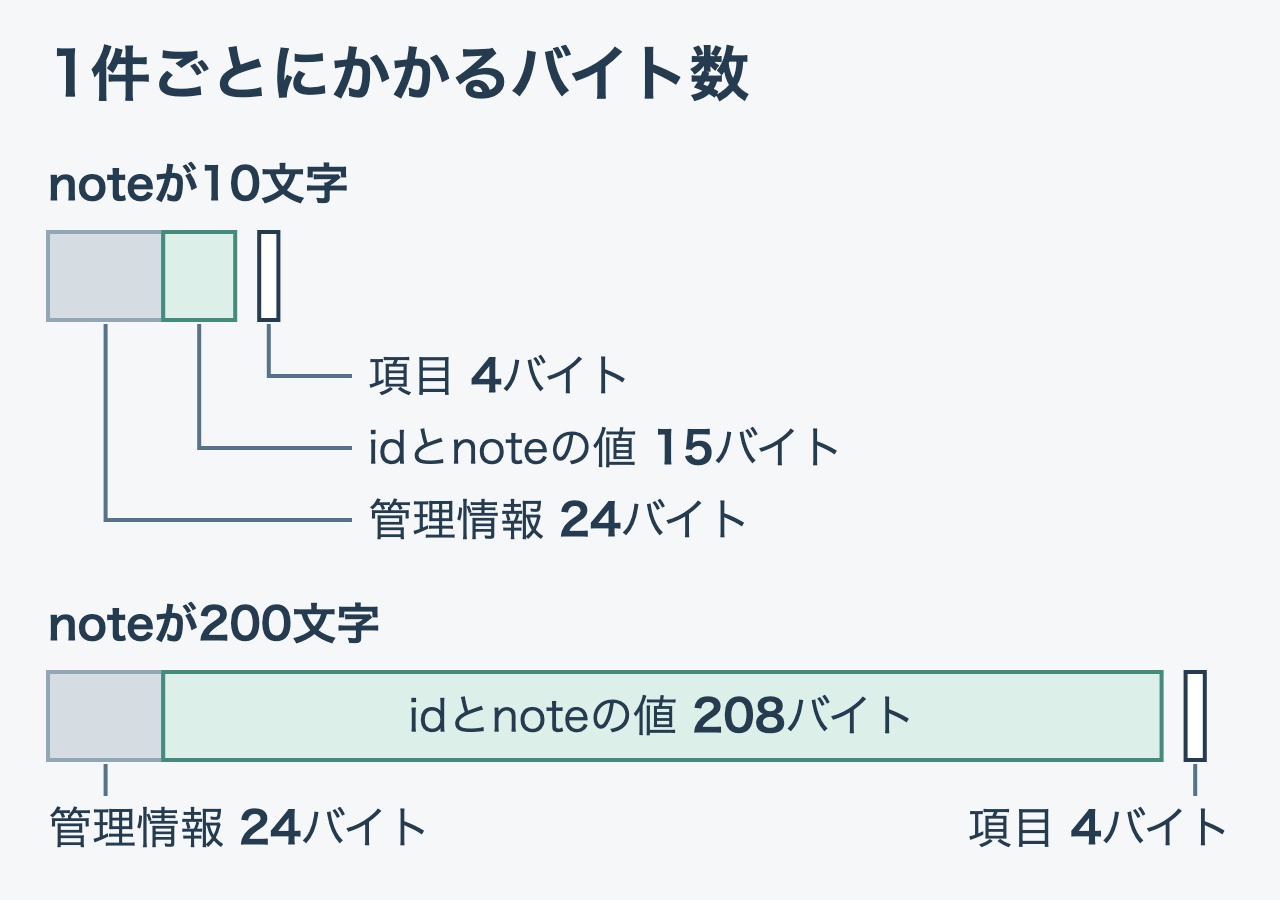
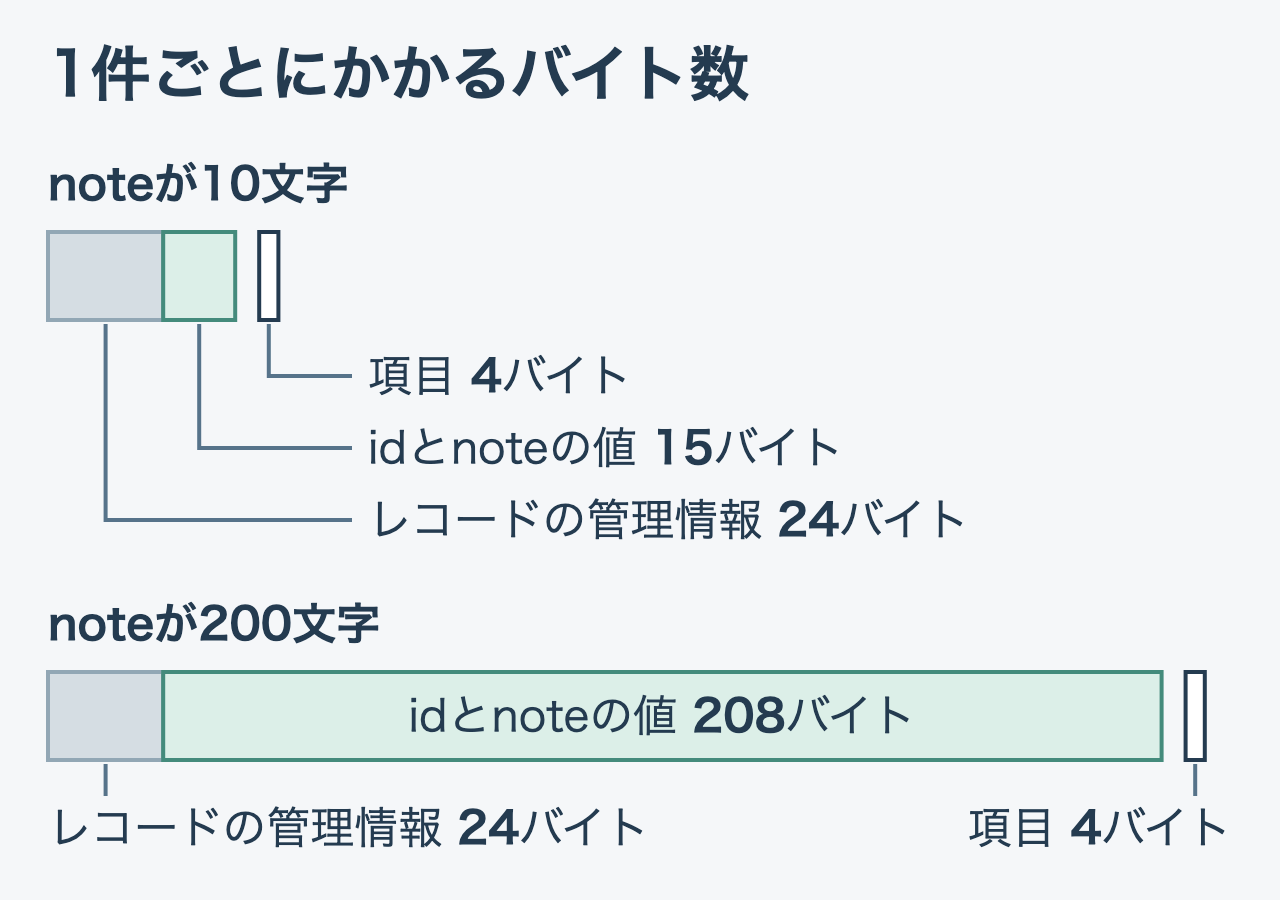
docs(query-journey): 第4章の「管理情報」を言い分け、1ページに185件入る内訳を脚注で示す
確かめ直しの4位と次点。
- 帯の図 03-record-bytes のラベル、代替テキスト、キャプション、本文の「管理情報」を
  「レコードの管理情報」にし、ページの中の並びの図の「ページの管理情報」と
  言い分けた（catalog.json の説明も合わせた）
- 表の数で8,192を割っても185にならない理由を一文で断り、検証ログ
  04-record-size.out の lp_off（40バイトずつずれる）と lower（764＝24＋185×4）を
  脚注に書いた
- ctid の図のキャプションの「ページの中の並びや空き領域は再現していません」を、
  次の図へ送る形にした。直後の図が本1をいちばん後ろに描くので、並びが逆に
  見えていたため

Changed region(s): [[0.2812, 0.5289, 0.75, 0.6222], [0.0312, 0.8711, 0.5, 0.9644]]

diff --git a/books/postgresql-query-journey/04-pages-and-storage.md b/books/postgresql-query-journey/04-pages-and-storage.md
@@ -168,13 +168,13 @@ FROM books_observation ORDER BY id LIMIT 8;
 `ctid`の二つの数は、左から「ページ番号」「そのページ内でレコードを指す項目の番号」です。ページ番号は0から、項目番号は1から始まります。まずページ0を開き、その中の1番の項目からレコードの場所をたどる、と読みます。
 
 ![出力の1行目のctid (0,1)の0でページ0を選び、1の項目をたどって、実験用の本 1のレコードに届く](/images/postgresql-query-journey/03-ctid-location.png)
-*(0,1)の0がページを、1がページの中の項目を選ぶことを見てください。掲載した出力に合わせて描いた図で、ページの中の並びや空き領域は再現していません。*
+*(0,1)の0がページを、1がページの中の項目を選ぶことを見てください。掲載した出力に合わせて描いた図です。ページの中でレコードがどう並ぶかは、次の図で見ます。*
 
 項目は、レコードそのものではありません。ページの中でレコードがどこにあるかを書いた、1件4バイトの小さな札です。項目はページの前から順に、レコードはページの後ろから詰めて置かれ、その間が空き領域になります。レコードを直接指さずに札を一段挟むのは、空き領域を詰めるためにページの中でレコードを動かしても、項目の番号、つまり`ctid`を変えずに済むからです（[ページの構造の公式説明](https://www.postgresql.org/docs/18/storage-page-layout.html)）。
 
 ページ0の中の並びを図にすると、次のようになります。
 
-![ページ0の先頭に管理情報があり、その後ろに項目1、2、3…136が前から並ぶ。レコードは本1がいちばん後ろで、本2、本3…本136と後ろから並び、間が空き領域になる。各項目は自分のレコードを指す](/images/postgresql-query-journey/03-page-layout.png)
+![ページ0の先頭にページの管理情報があり、その後ろに項目1、2、3…136が前から並ぶ。レコードは本1がいちばん後ろで、本2、本3…本136と後ろから並び、間が空き領域になる。各項目は自分のレコードを指す](/images/postgresql-query-journey/03-page-layout.png)
 *項目は前から、レコードは後ろから並び、その間が空き領域になることを見てください。項目の番号が、`ctid`の右側の数です（136件は2026年9月28日の実測、各部分の大きさは説明するための図）。*
 
 出力の8件は、`ctid`の左側がすべて0です。本1から本8までは同じページにあり、右側の1〜8で別々のレコードを指しています。`LIMIT 8`で表示を止めたので、ページ0に入るレコードがこの8件だけとは限りません。
@@ -304,10 +304,14 @@ SELECT pg_relation_size('size_short') AS short_bytes,
 
 表の値を、バイト数に比例した長さの帯にすると、次のようになります。
 
-![noteが10文字の1件は管理情報24バイト、値15バイト、項目4バイト。200文字の1件は管理情報24バイト、値208バイト、項目4バイトで、管理情報と項目の長さは2本で同じ](/images/postgresql-query-journey/03-record-bytes.png)
-*左端の管理情報と右端の項目が、2本で同じ長さであることを見てください。帯の長さはバイト数に比例させています（バイト数は2026年9月28日の実測）。*
+![noteが10文字の1件はレコードの管理情報24バイト、値15バイト、項目4バイト。200文字の1件はレコードの管理情報24バイト、値208バイト、項目4バイトで、レコードの管理情報と項目の長さは2本で同じ](/images/postgresql-query-journey/03-record-bytes.png)
+*左端のレコードの管理情報と右端の項目が、2本で同じ長さであることを見てください。帯の長さはバイト数に比例させています（バイト数は2026年9月28日の実測）。*
 
-管理情報と項目の分は、`note`が何文字でも同じだけかかります。10文字のレコードでは、1件に使う場所の半分以上がこの分です。そのため`note`を20倍にしても、1件に使う場所は20倍にはならず、1ページに入る件数も185件から34件へ減るだけでした。
+レコードの管理情報と項目の分は、`note`が何文字でも同じだけかかります。10文字のレコードでは、1件に使う場所の半分以上がこの分です。そのため`note`を20倍にしても、1件に使う場所は20倍にはならず、1ページに入る件数も185件から34件へ減るだけでした。
+
+表の数で8,192バイトを割っても、185件ぴったりにはなりません。ページの先頭には、ページの中の並びの図で見た、ページの管理情報もあります。さらに、レコードを置く位置をそろえるために、レコードの後ろに小さな隙間が空くことがあるからです[^page-fit]。
+
+[^page-fit]: 同じ`pageinspect`で読むと、10文字のテーブルのページ0では、レコードを置いた位置（`heap_page_items`の`lp_off`）が8152、8112、8072と、39バイトではなく40バイトずつずれていました。項目の並びの終わりの位置（`page_header`の`lower`）は764で、ページの管理情報の24バイトと、185件分の項目（185×4＝740バイト）を足した数です。200文字のレコードは232バイトで、位置は232バイトずつずれていました。
 
 実際のファイルには、まだレコードが入っていないページも2枚ずつありました。
 
